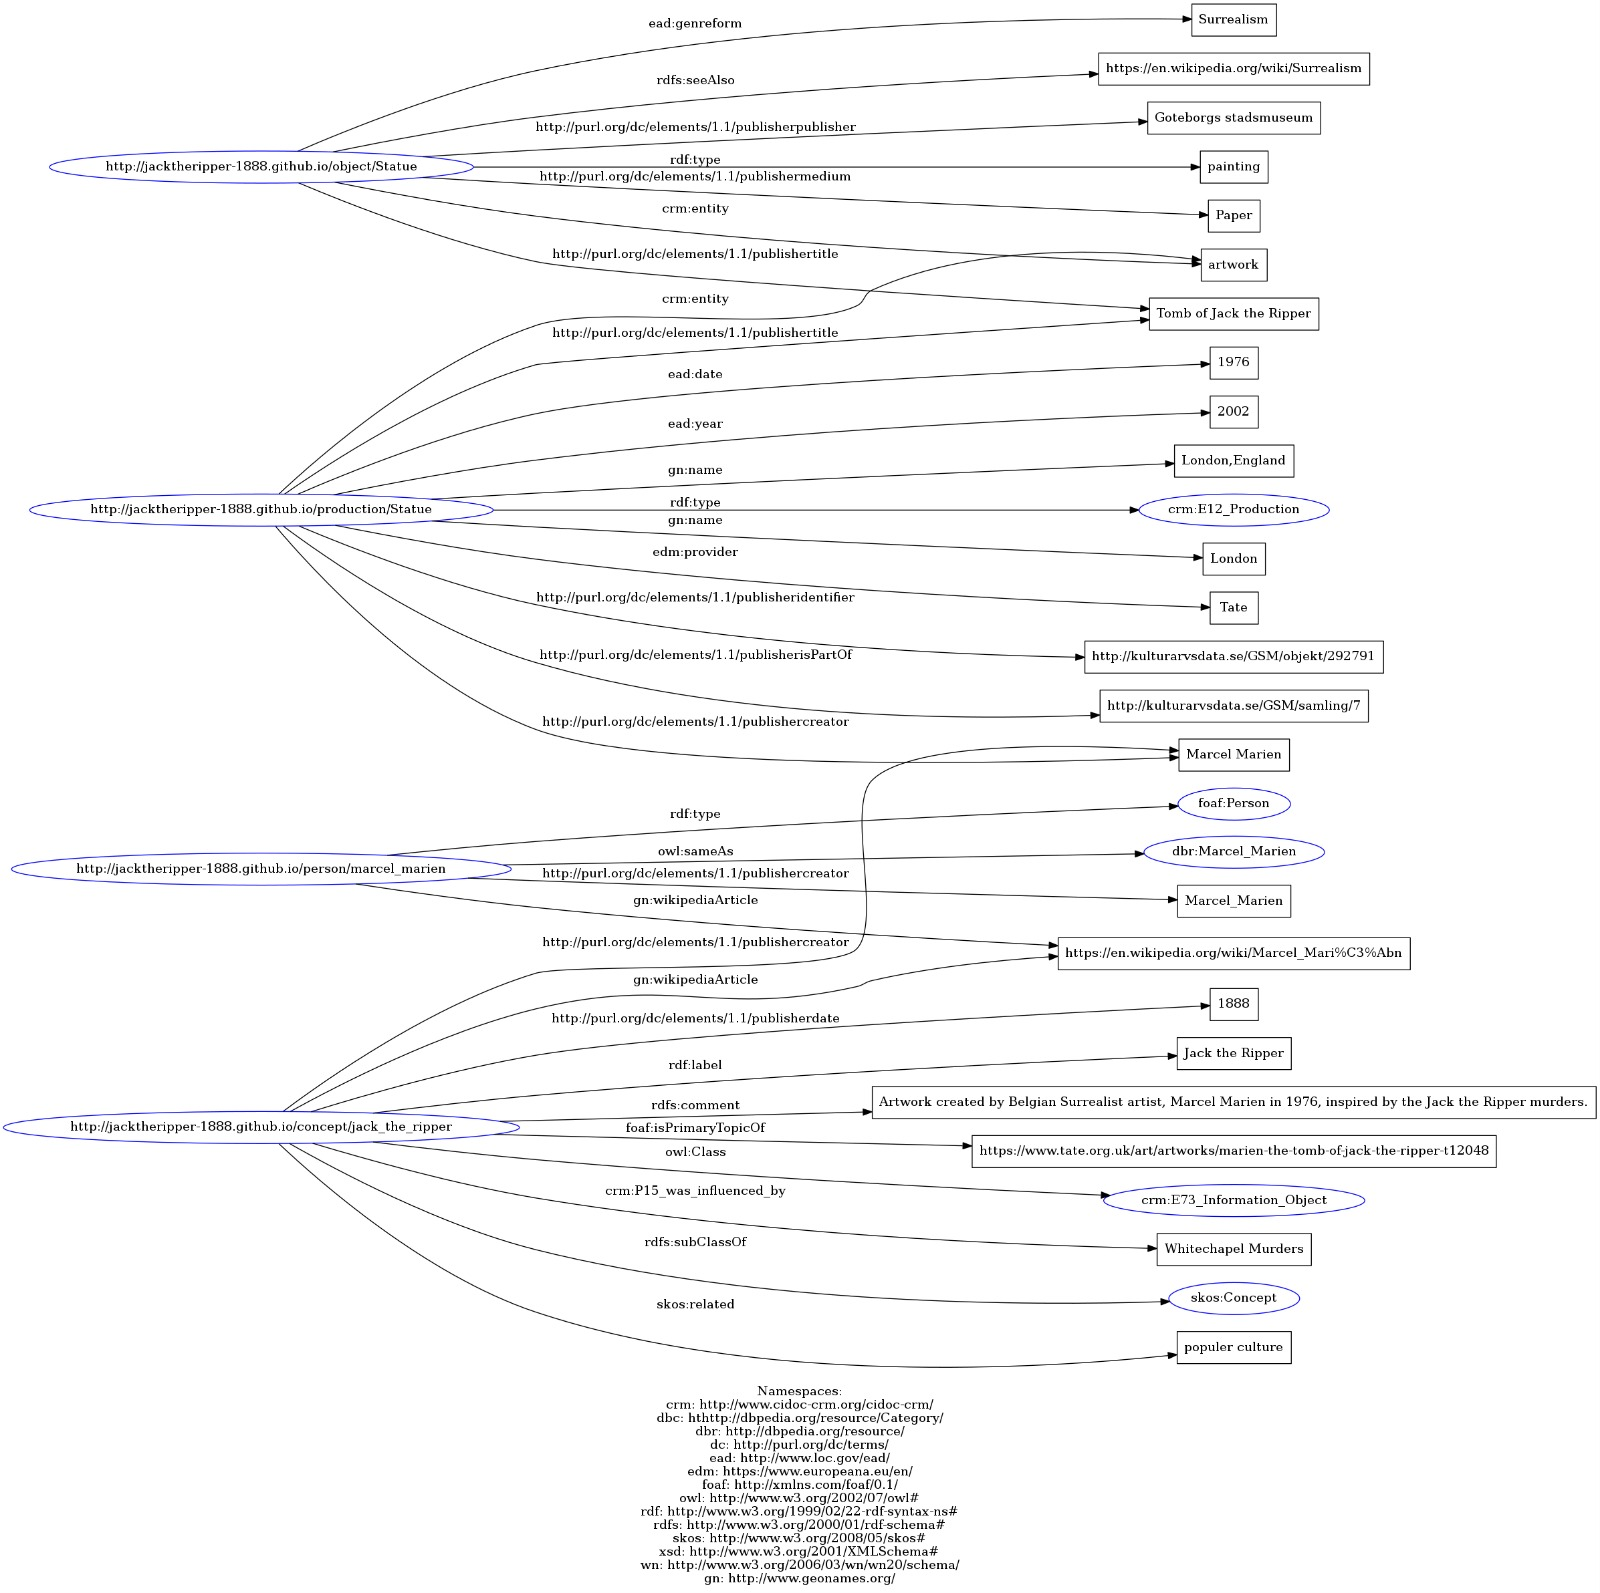
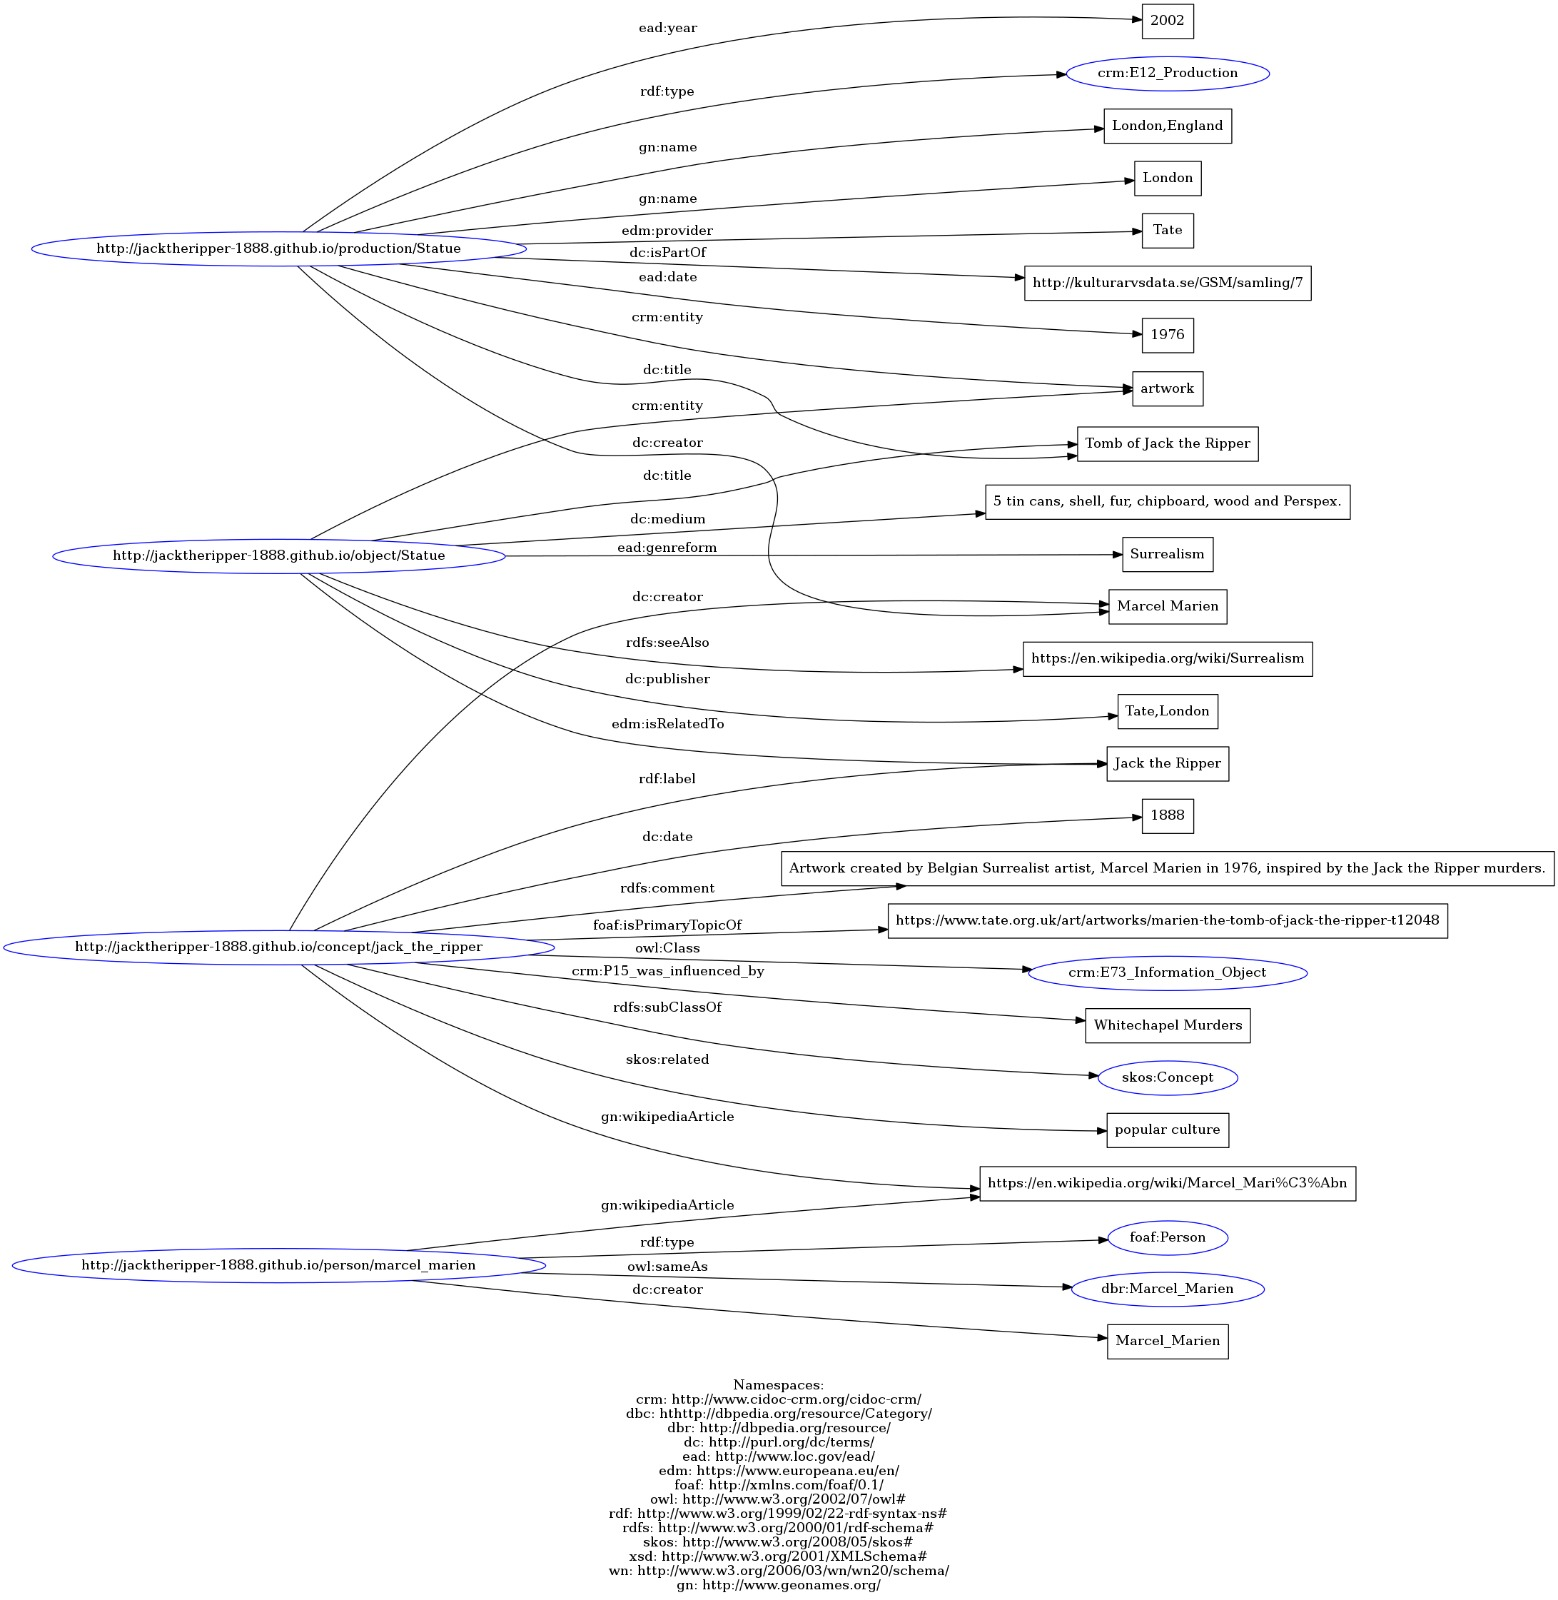
corrections

diff --git a/rdf.html b/rdf.html
@@ -1,0 +1,89 @@
+<!-- Wrapper -->
+			<div id="wrapper">
+
+				<!-- Main -->
+					<section id="main" class="wrapper">
+						<div class="inner">
+							<h1 class="major">RDF</h1>
+							
+							<pre style="background-color:antiquewhite">
+								<code class="prettyprint">
+@base &lt;http://jacktheripper-1888.github.io/&gt;.
+@prefix crm: &lt;http://www.cidoc-crm.org/cidoc-crm/&gt;.
+@prefix dbc: &lt;hthttp://dbpedia.org/resource/Category/&gt;.
+@prefix dbr: &lt;http://dbpedia.org/resource/&gt;.
+@prefix dc: &lt;http://purl.org/dc/terms/&gt;.
+@prefix ead: &lt;http://www.loc.gov/ead/&gt;.
+@prefix edm: &lt;https://www.europeana.eu/en/&gt;.
+@prefix foaf: &lt;http://xmlns.com/foaf/0.1/&gt;.
+@prefix owl: &lt;http://www.w3.org/2002/07/owl#&gt;.
+@prefix rdf: &lt;http://www.w3.org/1999/02/22-rdf-syntax-ns#&gt;.
+@prefix rdfs: &lt;http://www.w3.org/2000/01/rdf-schema#>&gt;.
+@prefix skos: &lt;http://www.w3.org/2008/05/skos#&gt;.
+@prefix xsd: &lt;http://www.w3.org/2001/XMLSchema#&gt;.
+@prefix wn: &lt;http://www.w3.org/2006/03/wn/wn20/schema/&gt;.
+@prefix gn: &lt;http://www.geonames.org/&gt;.
+
+
+&lt;production/Statue&gt;
+        rdf:type crm:E12_Production;
+        crm:entity "artwork";
+        gn:name "London,England";
+        dc:title "Tomb of Jack the Ripper";
+        gn:name "London";
+        edm:provider "Tate";
+        dc:creator "Marcel Marien";
+        dc:isPartOf "http://kulturarvsdata.se/GSM/samling/7";
+        ead:date "1976";
+        ead:year "2002".
+
+&lt;object/Statue&gt;
+        dc:medium "5 tin cans, shell, fur, chipboard, wood and Perspex." ;
+        crm:entity "artwork";
+        dc:title "Tomb of Jack the Ripper";
+        ead:genreform "Surrealism";
+        rdfs:seeAlso "https://en.wikipedia.org/wiki/Surrealism";
+        dc:publisher "Tate,London";
+        edm:isRelatedTo "Jack the Ripper".
+        
+&lt;person/marcel_marien&gt;
+        rdf:type foaf:Person;
+        owl:sameAs dbr:Marcel_Marien;
+        dc:creator "Marcel_Marien";
+        gn:wikipediaArticle "https://en.wikipedia.org/wiki/Marcel_Mari%C3%Abn".
+
+
+&lt;concept/jack_the_ripper&gt;
+        owl:Class crm:E73_Information_Object;
+        crm:P15_was_influenced_by "Whitechapel Murders";
+        rdfs:subClassOf skos:Concept;
+        skos:related "popular culture";
+        dc:date "1888";
+        rdf:label "Jack the Ripper";
+        rdfs:comment "Artwork created by Belgian Surrealist artist, Marcel Marien in 1976, inspired by the Jack the Ripper murders.";
+        dc:creator "Marcel Marien";
+        foaf:isPrimaryTopicOf "https://www.tate.org.uk/art/artworks/marien-the-tomb-of-jack-the-ripper-t12048";
+        gn:wikipediaArticle "https://en.wikipedia.org/wiki/Marcel_Mari%C3%Abn".
+
+
+								</code>
+							</pre>
+						</div>
+					</section>
+
+			</div>
+
+		
+
+		<!-- Scripts -->
+			<script type="text/javascript" src="https://app.diagrams.net/js/viewer.min.js"></script>
+			<script src="assets/js/jquery.min.js"></script>
+			<script src="assets/js/jquery.scrollex.min.js"></script>
+			<script src="assets/js/jquery.scrolly.min.js"></script>
+			<script src="assets/js/browser.min.js"></script>
+			<script src="assets/js/breakpoints.min.js"></script>
+			<script src="assets/js/util.js"></script>
+			<script src="assets/js/main.js"></script>
+			<script src="https://cdn.jsdelivr.net/gh/google/code-prettify@master/loader/run_prettify.js"></script>
+	</body>
+</html>

diff --git a/index.html b/index.html
@@ -424,9 +424,12 @@
     <p><a href="assets/img/RDF raw file.txt">Click here to view the RAW file.</a></p>
     <!-- Wrapper -->
 			<div id="wrapper">
-				<!-- Turtle -->
-				<section id="main" class="wrapper">
+
+				<!-- Main -->
+					<section id="main" class="wrapper">
 						<div class="inner">
+							<h1 class="major">RDF</h1>
+							
 							<pre style="background-color:antiquewhite">
 								<code class="prettyprint">
 @base &lt;http://jacktheripper-1888.github.io/&gt;.
@@ -434,20 +437,16 @@
 @prefix dbc: &lt;hthttp://dbpedia.org/resource/Category/&gt;.
 @prefix dbr: &lt;http://dbpedia.org/resource/&gt;.
 @prefix dc: &lt;http://purl.org/dc/terms/&gt;.
-@prefix dc: &lt;http://purl.org/dc/terms/creator/&gt;.
 @prefix ead: &lt;http://www.loc.gov/ead/&gt;.
 @prefix edm: &lt;https://www.europeana.eu/en/&gt;.
 @prefix foaf: &lt;http://xmlns.com/foaf/0.1/&gt;.
 @prefix owl: &lt;http://www.w3.org/2002/07/owl#&gt;.
 @prefix rdf: &lt;http://www.w3.org/1999/02/22-rdf-syntax-ns#&gt;.
-@prefix rdfs: &lt;http://www.w3.org/2000/01/rdf-schema#&gt;.
+@prefix rdfs: &lt;http://www.w3.org/2000/01/rdf-schema#>&gt;.
 @prefix skos: &lt;http://www.w3.org/2008/05/skos#&gt;.
 @prefix xsd: &lt;http://www.w3.org/2001/XMLSchema#&gt;.
 @prefix wn: &lt;http://www.w3.org/2006/03/wn/wn20/schema/&gt;.
 @prefix gn: &lt;http://www.geonames.org/&gt;.
-@prefix dc: &lt;http://purl.org/dc/elements/1.1/publisher&gt;.
-
-
 
 
 &lt;production/Statue&gt;
@@ -458,20 +457,19 @@
         gn:name "London";
         edm:provider "Tate";
         dc:creator "Marcel Marien";
+        dc:isPartOf "http://kulturarvsdata.se/GSM/samling/7";
         ead:date "1976";
         ead:year "2002".
 
 &lt;object/Statue&gt;
-        rdf:type "statue";
-        dc:medium "5 tin cans,shell, fur, chipboard, wood, and Perspex";
+        dc:medium "5 tin cans, shell, fur, chipboard, wood and Perspex." ;
         crm:entity "artwork";
         dc:title "Tomb of Jack the Ripper";
         ead:genreform "Surrealism";
         rdfs:seeAlso "https://en.wikipedia.org/wiki/Surrealism";
-        dc:publisher "Tate,London".
-     
-
-
+        dc:publisher "Tate,London";
+        edm:isRelatedTo "Jack the Ripper".
+        
 &lt;person/marcel_marien&gt;
         rdf:type foaf:Person;
         owl:sameAs dbr:Marcel_Marien;
@@ -490,10 +488,27 @@
         dc:creator "Marcel Marien";
         foaf:isPrimaryTopicOf "https://www.tate.org.uk/art/artworks/marien-the-tomb-of-jack-the-ripper-t12048";
         gn:wikipediaArticle "https://en.wikipedia.org/wiki/Marcel_Mari%C3%Abn".
+
+
 								</code>
 							</pre>
 						</div>
 					</section>
+
+			</div>
+
+		
+
+		<!-- Scripts -->
+			<script type="text/javascript" src="https://app.diagrams.net/js/viewer.min.js"></script>
+			<script src="assets/js/jquery.min.js"></script>
+			<script src="assets/js/jquery.scrollex.min.js"></script>
+			<script src="assets/js/jquery.scrolly.min.js"></script>
+			<script src="assets/js/browser.min.js"></script>
+			<script src="assets/js/breakpoints.min.js"></script>
+			<script src="assets/js/util.js"></script>
+			<script src="assets/js/main.js"></script>
+			<script src="https://cdn.jsdelivr.net/gh/google/code-prettify@master/loader/run_prettify.js"></script>
 
 			</div>
 
